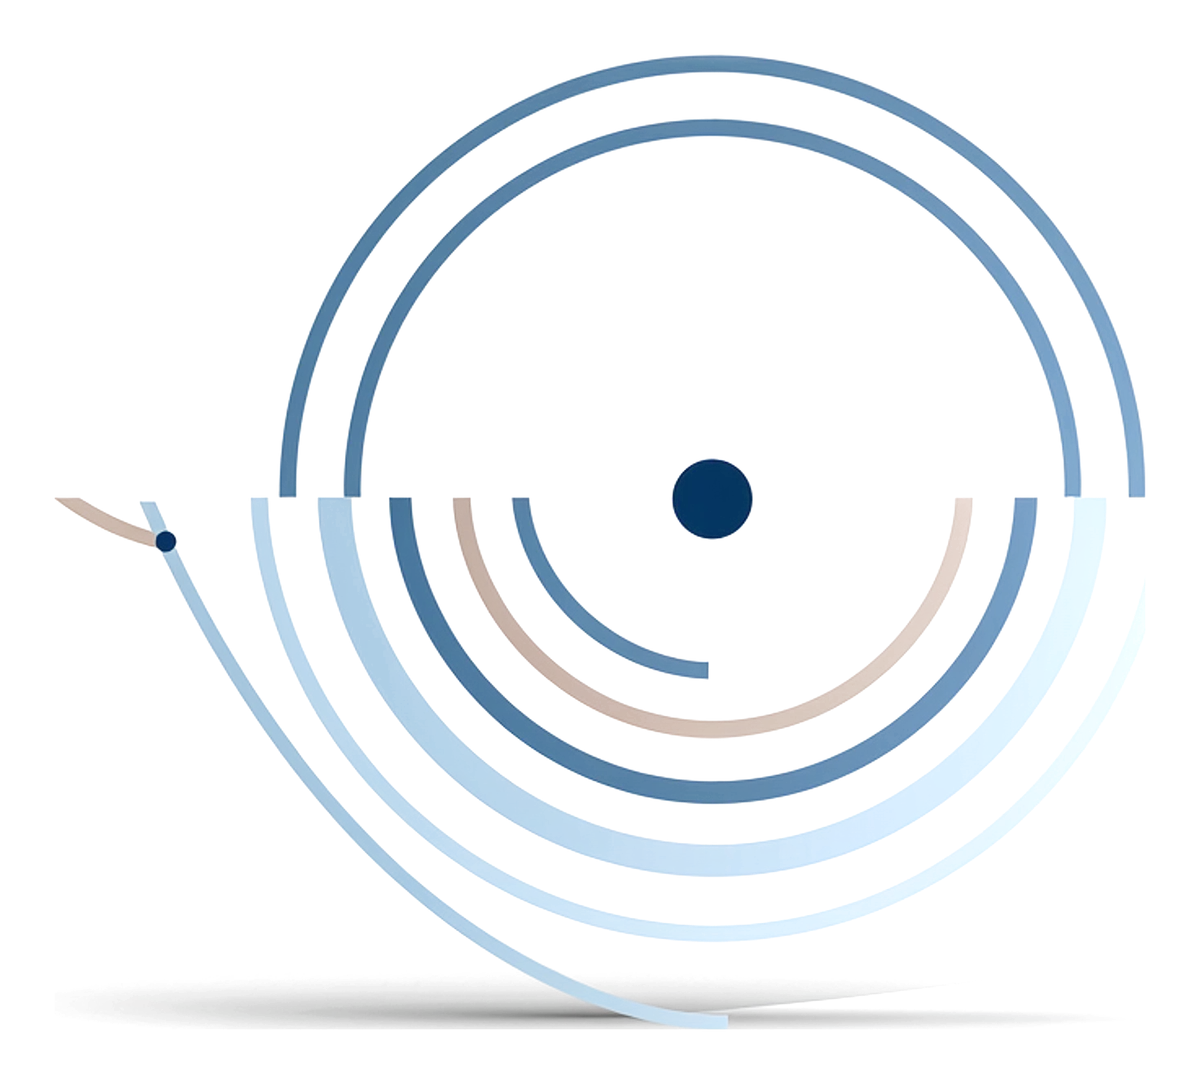
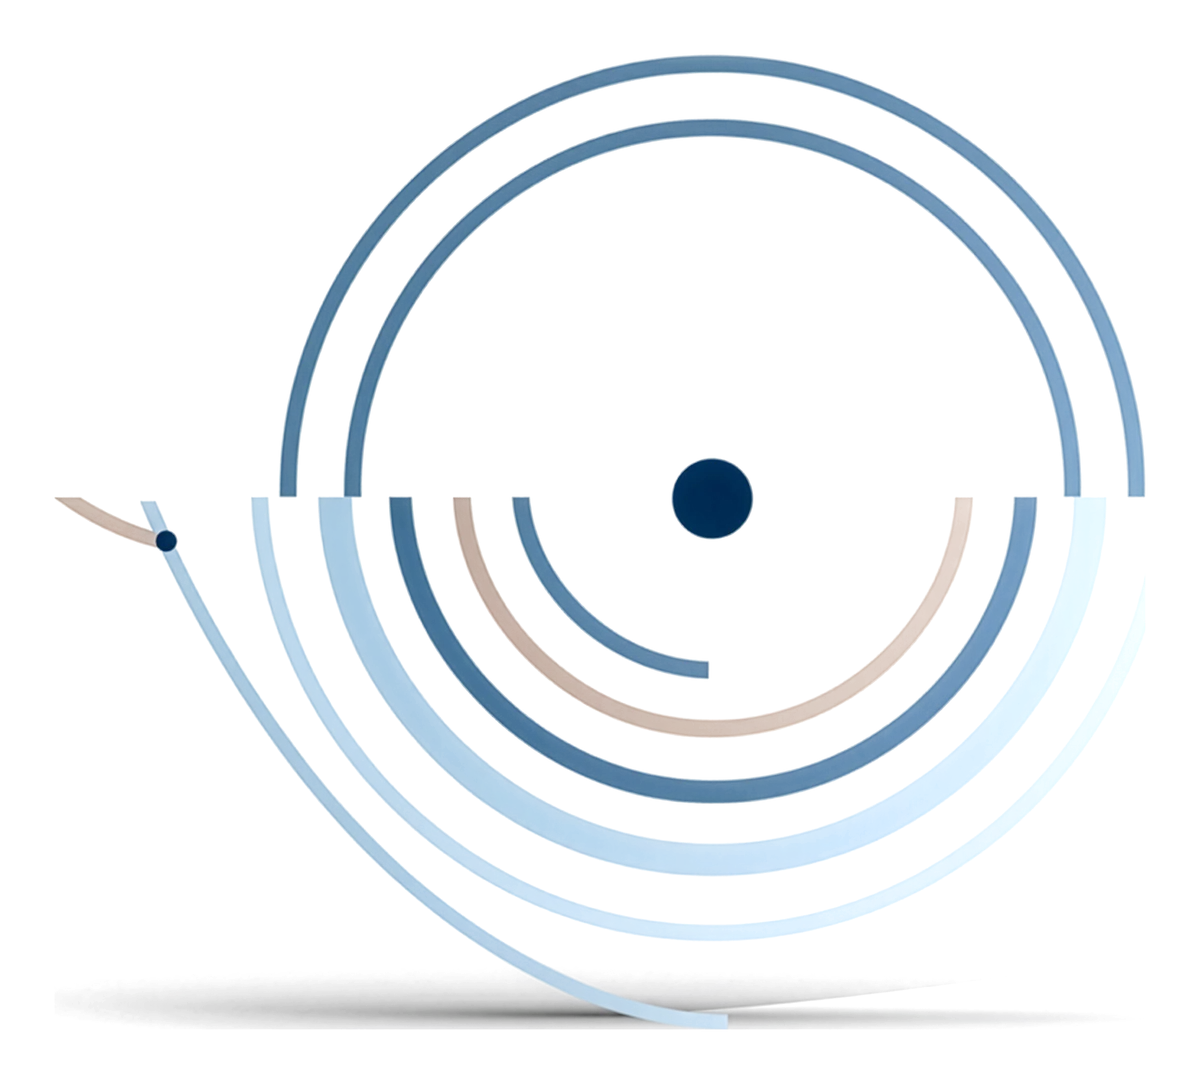
Global engineering consultancy hero from Firefly Upscaler 4x (25 of 63)

Changed region(s): [[0.4933, 0.9133, 0.5242, 0.9437], [0.1233, 0.4871, 0.1542, 0.5175]]

diff --git a/web/content/image-licences.ts b/web/content/image-licences.ts
@@ -325,7 +325,7 @@ export const imageLicences: ImageLicence[] = [
     file: "public/hero/case-study-global-engineering-consultancy.webp",
     source: "licensed-generative",
     provider: "Adobe Firefly",
-    reference: "firefly-image5-2026-11-26-spec63-45 (local 4x enlargement; Firefly Upscaler pending)",
+    reference: "firefly-image5-2026-11-26-spec63-45 (Firefly Upscaler 4x)",
     acquired: "2026-11-26",
     depicts: "A set of steel and pale blue drafting arcs swung from one fixed navy point over an open plane",
     aiGenerated: true,
